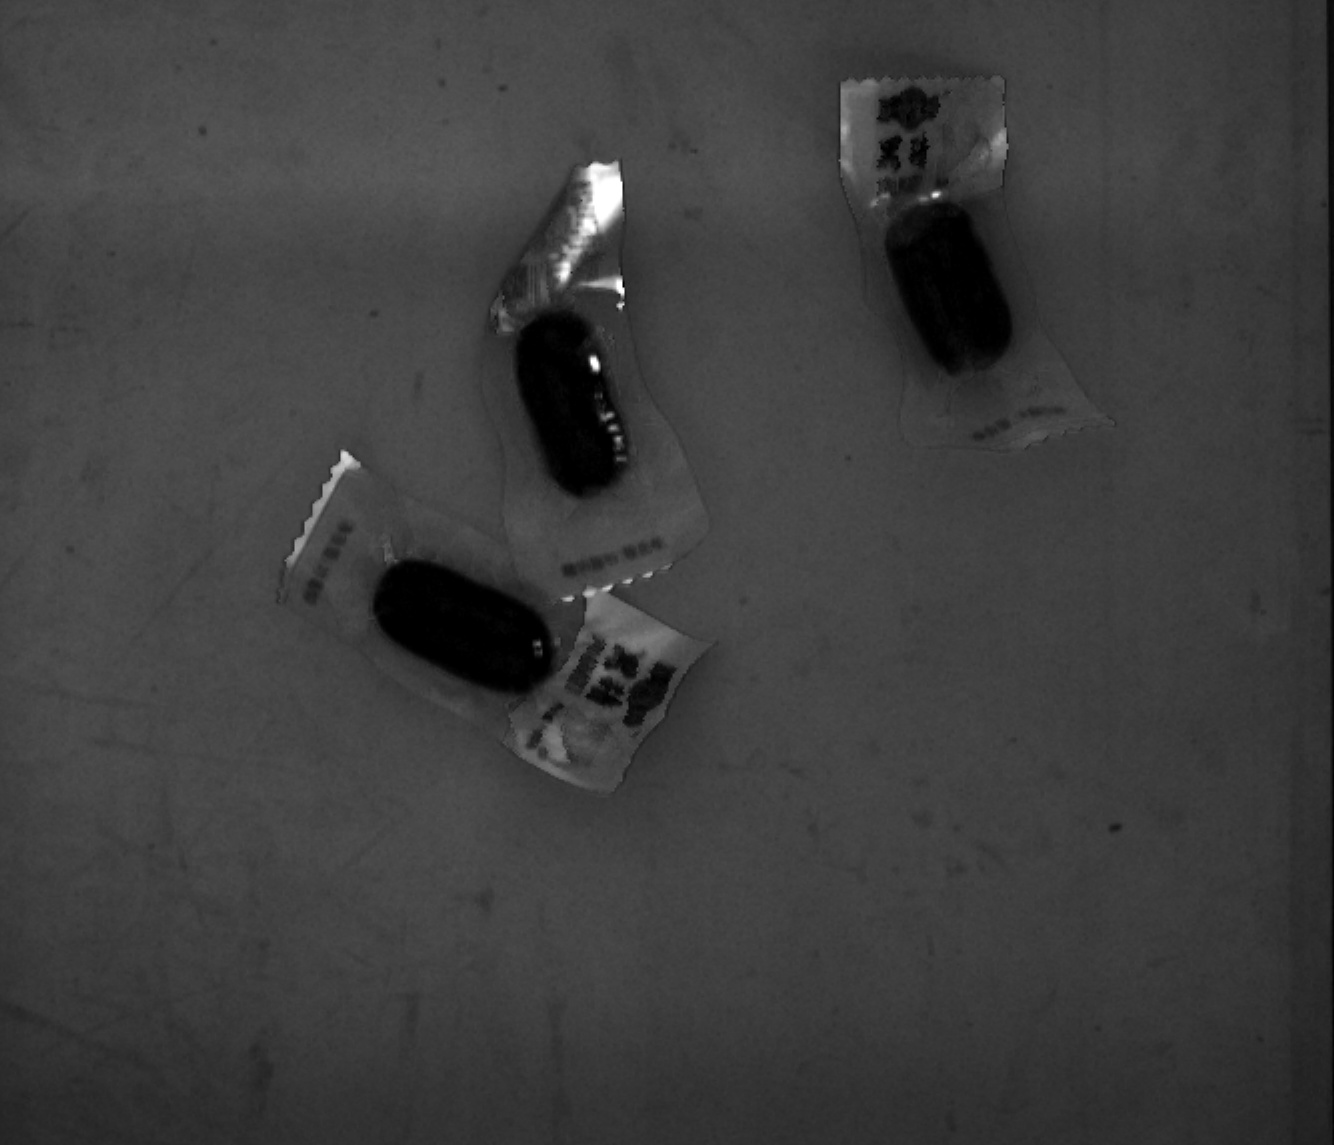
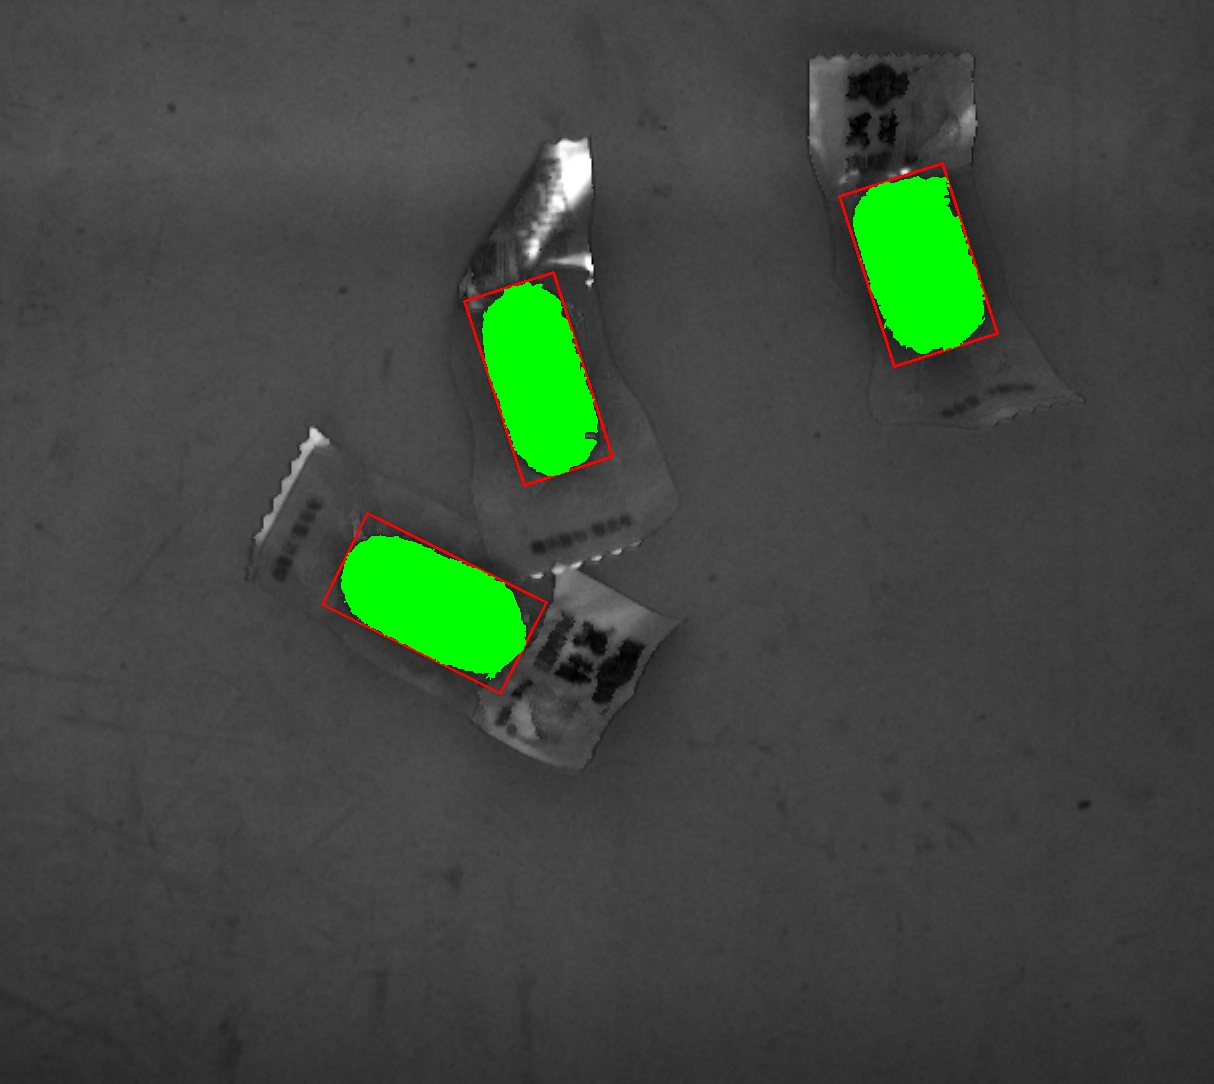
功能全部实现

diff --git a/qt.py b/qt.py
@@ -2,12 +2,16 @@ import sys
 import cv2
 import numpy as np
 from PyQt5.QtWidgets import (QApplication, QWidget, QLabel, QPushButton,
-                             QVBoxLayout, QHBoxLayout, QFileDialog,QComboBox,QDialog,
-                             QRadioButton,QSlider,QLineEdit)
+                             QVBoxLayout, QHBoxLayout, QFileDialog, QComboBox, QDialog,
+                             QRadioButton, QSlider, QLineEdit, QSizePolicy)
 from PyQt5.QtGui import QPixmap, QImage, QPainter, QPen
-from PyQt5.QtCore import Qt, QPoint, QRect
+from PyQt5.QtCore import Qt, QPoint, QRect, QTimer
+
 
 def process_roi(roi_image, channel='r', threshold_type=None, low_thresh=0, high_thresh=33, min_area=3000):
+    # 添加阈值有效性检查
+    if low_thresh > high_thresh:
+        low_thresh, high_thresh = high_thresh, low_thresh
     b, g, r = cv2.split(roi_image)
     if channel == 'r':
         gray = r
@@ -17,27 +21,34 @@ def process_roi(roi_image, channel='r', threshold_type=None, low_thresh=0, high_
         gray = b
     else:
         gray = r
-
     if threshold_type is None:
         processed_image = cv2.merge([gray, gray, gray])
         return processed_image
 
+        # 修改阈值处理逻辑
     if threshold_type == 'auto':
         _, binary = cv2.threshold(gray, 0, 255, cv2.THRESH_BINARY + cv2.THRESH_OTSU)
     else:
-        # 手动二值化：只标记像素值在 low_thresh 到 high_thresh 之间的区域
-        _, binary = cv2.threshold(gray, low_thresh, high_thresh, cv2.THRESH_BINARY)
-        print(f"手动二值化: 低 {low_thresh}, 高 {high_thresh}")
+        # 使用inRange替代threshold实现区间阈值
+        binary = cv2.inRange(gray, low_thresh, high_thresh)
 
+        # 优化连通区域分析
     contours, _ = cv2.findContours(binary, cv2.RETR_EXTERNAL, cv2.CHAIN_APPROX_SIMPLE)
     processed_image = roi_image.copy()
 
     for contour in contours:
         area = cv2.contourArea(contour)
         if area >= min_area:
-            cv2.drawContours(processed_image, [contour], -1, (0, 255, 0), thickness=2)  # 绿点标记
-            x, y, w, h = cv2.boundingRect(contour)
-            cv2.rectangle(processed_image, (x, y), (x + w, y + h), (0, 255, 0), 2)  # 外接矩形
+            # 绘制旋转矩形（红色）
+            rect = cv2.minAreaRect(contour)
+            box = cv2.boxPoints(rect)
+            box = np.intp(box)
+            cv2.drawContours(processed_image, [box], 0, (0, 0, 255), 2)
+
+            # 填充区域（绿色）
+            mask = np.zeros_like(gray)
+            cv2.drawContours(mask, [contour], -1, 255, -1)
+            processed_image[mask == 255] = [0, 255, 0]
 
     return processed_image
 
@@ -61,7 +72,8 @@ class ImageViewer(QWidget):
     def initUI(self):
         self.image_label = QLabel(self)
         self.image_label.setAlignment(Qt.AlignCenter)
-        self.image_label.setMinimumSize(640, 480)
+        # 去掉 setMinimumSize(640, 480)，让它自由伸缩
+        self.image_label.setSizePolicy(QSizePolicy.Expanding, QSizePolicy.Expanding)  # 允许扩展
 
         btn_load = QPushButton("加载图片", self)
         btn_load.clicked.connect(self.loadImage)
@@ -72,13 +84,12 @@ class ImageViewer(QWidget):
         btn_save = QPushButton("保存ROI", self)
         btn_save.clicked.connect(self.saveROI)
 
-        btn_process = QPushButton("提取通道",self)
+        btn_process = QPushButton("提取通道", self)
         btn_process.clicked.connect(self.processROI)
 
-        #添加下拉菜单选择通道
         self.channel_combo = QComboBox(self)
         self.channel_combo.addItems(["Red", "Green", "Blue"])
-        #创建一个水平布局（QHBoxLayout），并将多个控件（如按钮和下拉框）添加到这个布局中
+
         btn_layout = QHBoxLayout()
         btn_layout.addWidget(btn_load)
         btn_layout.addWidget(btn_roi)
@@ -90,52 +101,56 @@ class ImageViewer(QWidget):
         btn_params.clicked.connect(self.showParamsDialog)
         btn_layout.addWidget(btn_params)
 
-
         main_layout = QVBoxLayout()
         main_layout.addLayout(btn_layout)
-        main_layout.addWidget(self.image_label)
+        main_layout.addWidget(self.image_label, stretch=1)  # stretch=1 让图像区域占满剩余空间
         self.setLayout(main_layout)
 
         self.setWindowTitle('PyQt5')
         self.show()
+        self.setMinimumSize(800, 600)
+
+    def forceRefresh(self):
+        if self.roi_rect:
+            self.applyThreshold()
+            self.updateDisplay()
 
     def setThresholdType(self, type):
         self.threshold_type = type
         print(f"设置阈值类型: {type}")
 
-    def setLowThresh(self, value):
-        self.low_thresh = value
-        print(f"设置低阈值: {value}")
-
-    def setHighThresh(self, value):
-        self.high_thresh = value
-        print(f"设置高阈值: {value}")
-
     def setMinArea(self, text):
         try:
             self.min_area = int(text)
             print(f"设置最小面积: {self.min_area}")
+            QTimer.singleShot(500, self.applyThreshold)  # 延迟 500ms
         except ValueError:
             self.min_area = 3000
             print("面积输入无效，使用默认值 3000")
+            QTimer.singleShot(500, self.applyThreshold)
 
     def applyThreshold(self):
-        if self.roi_rect and self.original_image is not None:
+        if self.roi_rect and self.pristine_image is not None:
             print("开始应用阈值...")
             x1, y1 = self.roi_rect.left(), self.roi_rect.top()
             x2, y2 = self.roi_rect.right(), self.roi_rect.bottom()
-            roi = self.original_image[y1:y2, x1:x2]
+            roi = self.pristine_image[y1:y2, x1:x2]  # 从原始图像取 ROI
             if roi.size > 0:
                 channel = self.channel_combo.currentText().lower()[0]
-                processed_roi = process_roi(roi, channel, self.threshold_type,
+                # 先提取通道（保持灰度）
+                gray_roi = process_roi(roi, channel, threshold_type=None)
+                # 再应用阈值处理
+                processed_roi = process_roi(gray_roi, channel, self.threshold_type,
                                             self.low_thresh, self.high_thresh, self.min_area)
-                new_image = self.original_image.copy()
+                new_image = self.pristine_image.copy()  # 从原始图像复制
                 new_image[y1:y2, x1:x2] = processed_roi
                 self.original_image = new_image
                 self.updateDisplay()
                 print("阈值应用完成")
             else:
                 print("错误：选择的区域无效")
+        else:
+            print("无 ROI 或原始图像未加载")
 
     def loadImage(self):
         filename, _ = QFileDialog.getOpenFileName(
@@ -152,6 +167,7 @@ class ImageViewer(QWidget):
         dialog.setWindowTitle("参数设置")
         layout = QVBoxLayout()
 
+        # 单选按钮：自动/手动二值化
         auto_radio = QRadioButton("自动二值化", dialog)
         manual_radio = QRadioButton("手动二值化", dialog)
         auto_radio.setChecked(self.threshold_type == 'auto')
@@ -161,32 +177,65 @@ class ImageViewer(QWidget):
         layout.addWidget(auto_radio)
         layout.addWidget(manual_radio)
 
+        # 低阈值滑条 + 动态标签
+        low_layout = QHBoxLayout()
+        low_label = QLabel("低阈值:", dialog)
         low_slider = QSlider(Qt.Horizontal, dialog)
-        low_slider.setRange(0, 100)  # 保持 0-100，但后面映射到 0-255
+        low_slider.setRange(0, 255)
         low_slider.setValue(self.low_thresh)
-        low_slider.valueChanged.connect(self.setLowThresh)
-        layout.addWidget(QLabel("低阈值:"))
-        layout.addWidget(low_slider)
+        low_value_label = QLabel(f"{self.low_thresh}", dialog)  # 初始值
+        low_value_label.setFixedWidth(30)  # 固定宽度，避免跳动
+        low_slider.valueChanged.connect(lambda value: [self.setLowThresh(value), low_value_label.setText(f"{value}")])
+        low_layout.addWidget(low_label)
+        low_layout.addWidget(low_slider)
+        low_layout.addWidget(low_value_label)
+        layout.addLayout(low_layout)
 
+        # 高阈值滑条 + 动态标签
+        high_layout = QHBoxLayout()
+        high_label = QLabel("高阈值:", dialog)
         high_slider = QSlider(Qt.Horizontal, dialog)
-        high_slider.setRange(0, 300)  # 示例要 0-300
+        high_slider.setRange(0, 255)
         high_slider.setValue(self.high_thresh)
-        high_slider.valueChanged.connect(self.setHighThresh)
-        layout.addWidget(QLabel("高阈值:"))
-        layout.addWidget(high_slider)
+        high_value_label = QLabel(f"{self.high_thresh}", dialog)  # 初始值
+        high_value_label.setFixedWidth(30)  # 固定宽度，避免跳动
+        high_slider.valueChanged.connect(
+            lambda value: [self.setHighThresh(value), high_value_label.setText(f"{value}")])
+        high_layout.addWidget(high_label)
+        high_layout.addWidget(high_slider)
+        high_layout.addWidget(high_value_label)
+        layout.addLayout(high_layout)
 
+        # 最小面积输入框
+        area_layout = QHBoxLayout()
+        area_label = QLabel("最小面积:", dialog)
         area_input = QLineEdit(str(self.min_area), dialog)
-        area_input.textChanged.connect(self.setMinArea)
-        layout.addWidget(QLabel("最小面积:"))
-        layout.addWidget(area_input)
+        area_input.textChanged.connect(self.setMinArea)  # 实时更新
+        area_layout.addWidget(area_label)
+        area_layout.addWidget(area_input)
+        layout.addLayout(area_layout)
 
+        # 确定按钮
         ok_btn = QPushButton("确定", dialog)
-        ok_btn.clicked.connect(lambda checked: [dialog.accept(), self.applyThreshold()])
+        ok_btn.clicked.connect(lambda: [self.applyThreshold(), dialog.accept()])  # 先应用再关闭
         layout.addWidget(ok_btn)
 
         dialog.setLayout(layout)
-        print("对话框初始化完成")
         dialog.exec_()
+
+    def setLowThresh(self, value):
+        self.low_thresh = min(int(value), 255)
+        if self.low_thresh > self.high_thresh:
+            self.low_thresh = self.high_thresh
+        # print(f"设置低阈值: {self.low_thresh}")  # 去掉终端输出，靠界面显示
+        self.applyThreshold()  # 实时应用
+
+    def setHighThresh(self, value):
+        self.high_thresh = min(int(value), 255)
+        if self.high_thresh < self.low_thresh:
+            self.high_thresh = self.low_thresh
+        # print(f"设置高阈值: {self.high_thresh}")  # 去掉终端输出，靠界面显示
+        self.applyThreshold()  # 实时应用
 
     def onAutoToggled(self, checked):
         if checked:
@@ -203,18 +252,21 @@ class ImageViewer(QWidget):
     def updateDisplay(self):
         if self.original_image is None:
             return
-        h, w, ch = self.original_image.shape  # 用 original_image
+        h, w, ch = self.original_image.shape
         bytes_per_line = ch * w
-        image_rgb = cv2.cvtColor(self.original_image, cv2.COLOR_BGR2RGB)  # 从 original_image 转换
+        image_rgb = cv2.cvtColor(self.original_image, cv2.COLOR_BGR2RGB)
         q_img = QImage(image_rgb.data, w, h, bytes_per_line, QImage.Format_RGB888)
-        self.display_image = QPixmap.fromImage(q_img)  # 生成 QPixmap
+        self.display_image = QPixmap.fromImage(q_img)
+
         pixmap = self.display_image.copy()
         if self.roi_rect:
-            self.drawROI(pixmap)  # 绘制 ROI 框
+            self.drawROI(pixmap)
+
+        # 动态缩放到 image_label 的大小
         scaled_pixmap = pixmap.scaled(
             self.image_label.size(), Qt.KeepAspectRatio, Qt.SmoothTransformation)
         self.image_label.setPixmap(scaled_pixmap)
-        self.image_label.update()  # 确保刷新
+        self.image_label.update()
 
     def createROI(self):
         if self.original_image is not None:
@@ -410,11 +462,12 @@ class ImageViewer(QWidget):
             roi = self.pristine_image[y1:y2, x1:x2]  # 从原始图像取 ROI
             if roi.size > 0:
                 channel = self.channel_combo.currentText().lower()[0]
-                processed_roi = process_roi(roi, channel, threshold_type=None)
+                processed_roi = process_roi(roi, channel, threshold_type=None)  # 只提取通道
                 new_image = self.pristine_image.copy()  # 从原始图像复制
-                new_image[y1:y2, x1:x2] = processed_roi
-                self.original_image = new_image  # 更新当前图像
+                new_image[y1:y2, x1:x2] = processed_roi  # ROI 区域变灰
+                self.original_image = new_image  # 更新为灰度效果
                 self.updateDisplay()
+                print("通道提取完成，ROI 区域已变灰")
             else:
                 print("错误：选择的区域无效")
 

diff --git a/Channel_extraction.py b/Channel_extraction.py
@@ -1,4 +1,45 @@
-# roi_processor.py
 import cv2
 import numpy as np
 
+# 读取图像并转为灰度图
+img = cv2.imread("roi_result.jpg")
+gray = cv2.cvtColor(img, cv2.COLOR_BGR2GRAY)
+
+# 定义像素阈值（0-33灰度范围）
+low_thresh = 0
+high_thresh = 33
+
+# 生成初始掩膜
+mask = cv2.inRange(gray, low_thresh, high_thresh)
+
+# 寻找连通区域
+contours, _ = cv2.findContours(mask, cv2.RETR_EXTERNAL, cv2.CHAIN_APPROX_SIMPLE)
+
+# 面积阈值设置
+min_area = 3000  # 最小保留面积
+
+# 创建过滤后的掩膜
+filtered_mask = np.zeros_like(mask)
+
+for cnt in contours:
+    area = cv2.contourArea(cnt)
+    if area >= min_area:
+        # 绘制到过滤掩膜
+        cv2.drawContours(filtered_mask, [cnt], -1, 255, -1)
+
+        # 计算最小外接矩形
+        rect = cv2.minAreaRect(cnt)
+        box = cv2.boxPoints(rect)  # 获取矩形顶点
+        box = np.int0(box)  # 坐标转换为整数
+
+        # 在原图上绘制红色矩形框
+        cv2.drawContours(img, [box], 0, (0, 0, 255), 2)  # 红色，线宽2像素
+
+# 将符合要求的区域填充为绿色
+img[filtered_mask == 255] = [0, 255, 0]
+
+# 显示并保存结果
+cv2.imshow('Result with Bounding Boxes', img)
+cv2.waitKey(0)
+cv2.destroyAllWindows()
+cv2.imwrite('result_with_boxes.jpg', img)
